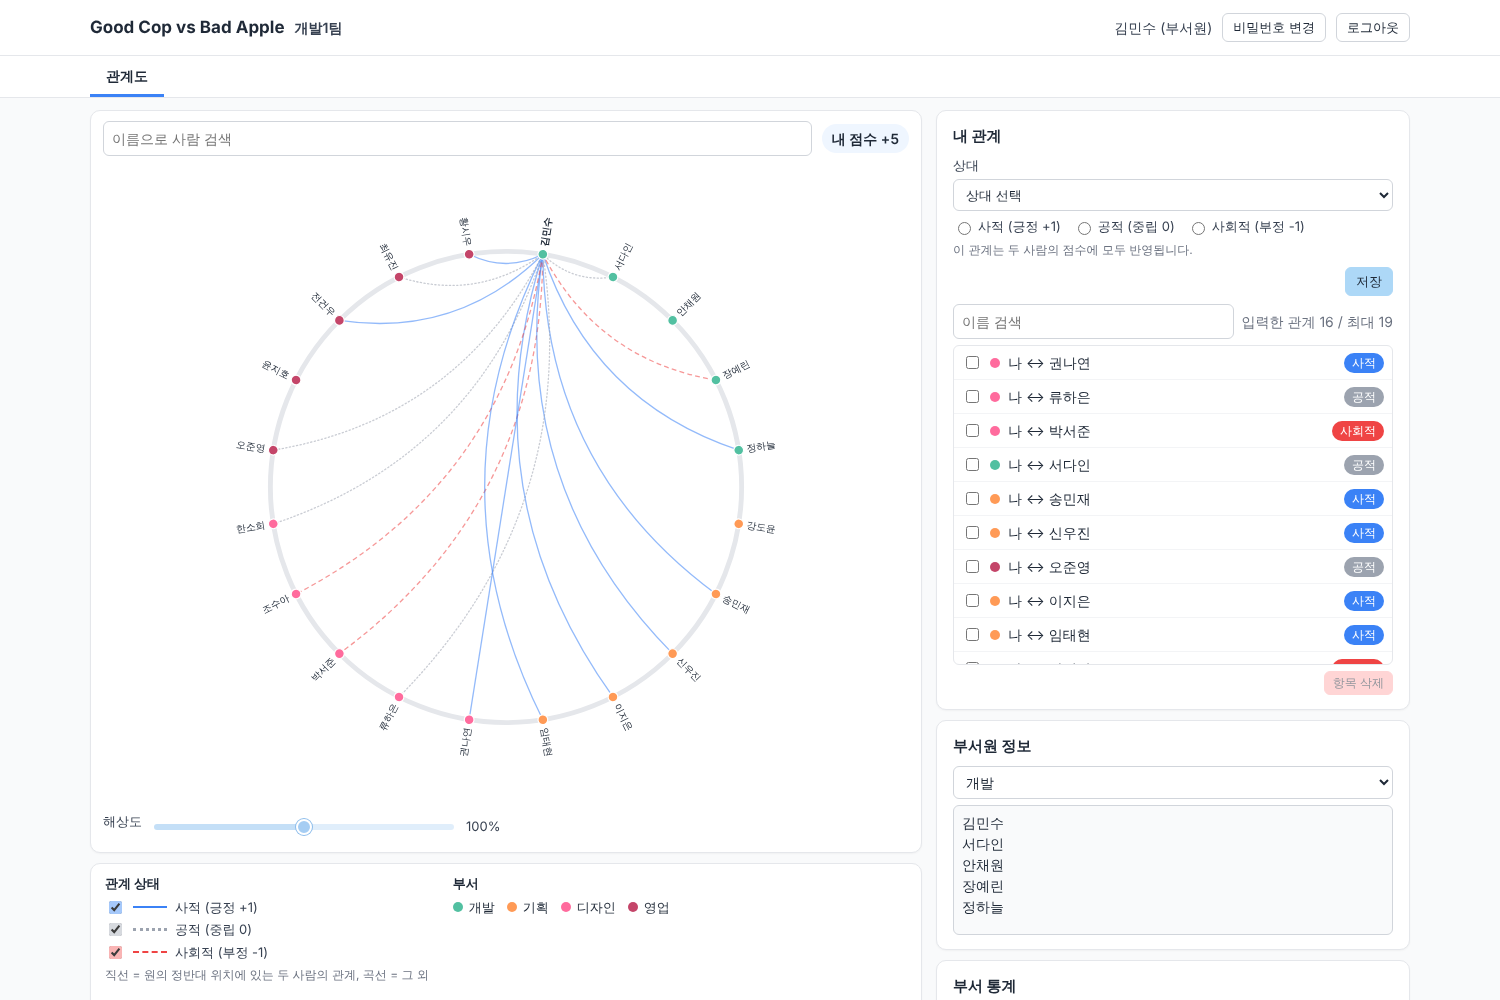
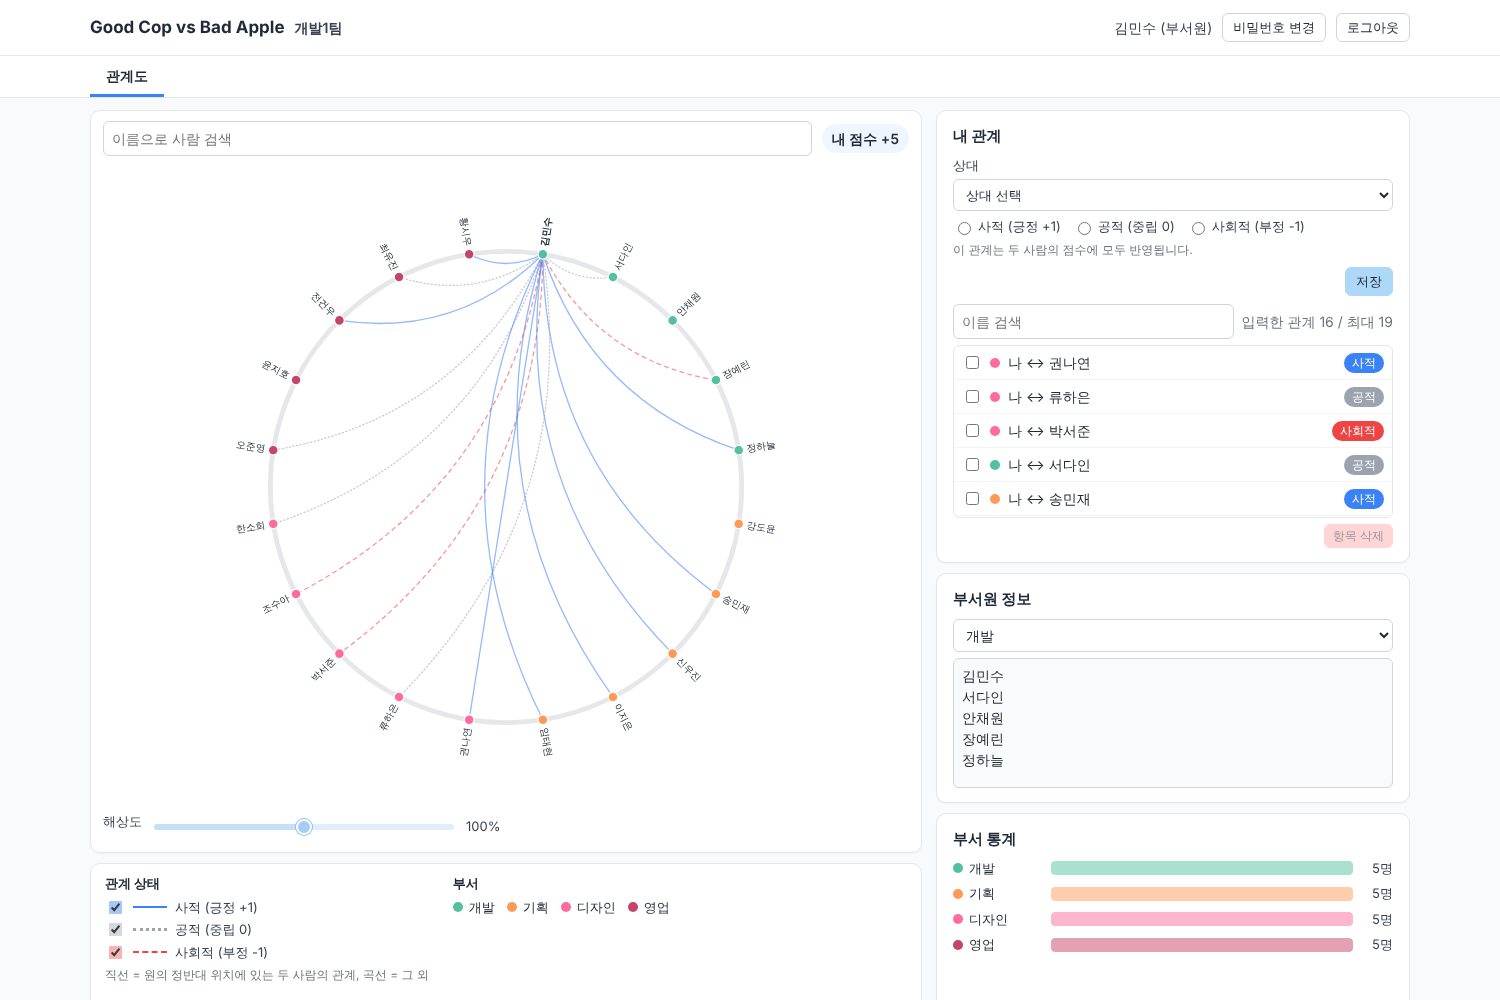
Align the right panel column's bottom with the legend card
Claude-Session: https://claude.ai/code/session_01DsfKjRFUmAajqSco24Yp3e

Changed region(s): [[0.6133, 0.527, 0.92, 0.992], [0.8587, 0.496, 0.9507, 0.713]]

diff --git a/public/app.js b/public/app.js
@@ -286,6 +286,9 @@ async function showApp() {
   $('panel-ranking').hidden = !isAdmin();
   $('panel-my-relations').hidden = isAdmin();
   $('my-score').hidden = isAdmin();
+  const side = document.querySelector('.side-column');
+  side.classList.toggle('admin', isAdmin());
+  side.classList.toggle('member', !isAdmin());
   if (!isAdmin()) switchTab('diagram');
 
   if (isAdmin()) {
@@ -429,6 +432,15 @@ function computeRanking(people) {
 // ---------------------------------------------------------------------------
 // 렌더링
 // ---------------------------------------------------------------------------
+/** 좌우로 나란히 있을 때 오른쪽 열의 아래를 왼쪽 마지막 카드(관계 상태)의 아래와 맞춘다. */
+function alignSideColumn() {
+  const left = document.querySelector('.chart-column');
+  const side = document.querySelector('.side-column');
+  const sideBySide = left.offsetHeight > 0 && Math.abs(left.offsetTop - side.offsetTop) < 2;
+  side.classList.toggle('aligned', sideBySide);
+  side.style.height = sideBySide ? `${left.offsetHeight}px` : '';
+}
+
 function renderAll() {
   const noTeam = !S.teamId;
   $('no-team-guide').hidden = !(noTeam && isAdmin());
@@ -438,6 +450,7 @@ function renderAll() {
   renderLegend();
   renderSidePanels();
   if (isAdmin()) renderAdmin();
+  alignSideColumn();
 }
 
 function pruneSelections() {
@@ -597,7 +610,10 @@ function applyZoom() {
   $('zoom-slider').style.background = `linear-gradient(to right, #C4DFF7 ${pct}%, #E0EEFB ${pct}%)`;
 }
 
-window.addEventListener('resize', () => { if (S.data) applyZoom(); });
+window.addEventListener('resize', () => {
+  if (S.data) applyZoom();
+  alignSideColumn();
+});
 
 function showTooltip(event, text) {
   const t = $('tooltip');
@@ -1391,6 +1407,7 @@ async function logout() {
 // ---------------------------------------------------------------------------
 async function boot() {
   bind();
+  if ('ResizeObserver' in window) new ResizeObserver(alignSideColumn).observe(document.querySelector('.chart-column'));
   try {
     applyMe(await api('me'));
     route();

diff --git a/public/style.css b/public/style.css
@@ -177,6 +177,12 @@ input:focus-visible, select:focus-visible, textarea:focus-visible, button:focus-
 .stat-row .num { text-align: right; color: var(--text-2); }
 
 #panel-my-relations { display: flex; flex-direction: column; max-height: 60vh; }
+
+/* 좌우 배치일 때 오른쪽 열 높이를 왼쪽 열(관계 상태 카드 아래)에 맞춤 — 남는 높이는 유동 카드가 흡수 */
+.side-column.aligned { min-height: 0; }
+.side-column.aligned > .card { flex: 0 0 auto; }
+.side-column.aligned.admin > .panel-stats,
+.side-column.aligned.member > #panel-my-relations { flex: 1 1 0; min-height: 0; height: auto; max-height: none; }
 .rel-form label { margin-bottom: 6px; }
 .status-radios { border: 0; padding: 0; margin: 4px 0; display: flex; gap: 12px; flex-wrap: nowrap; }
 .status-radios label { flex-direction: row; align-items: center; gap: 4px; margin: 0; white-space: nowrap; font-size: 13px; cursor: pointer; }
